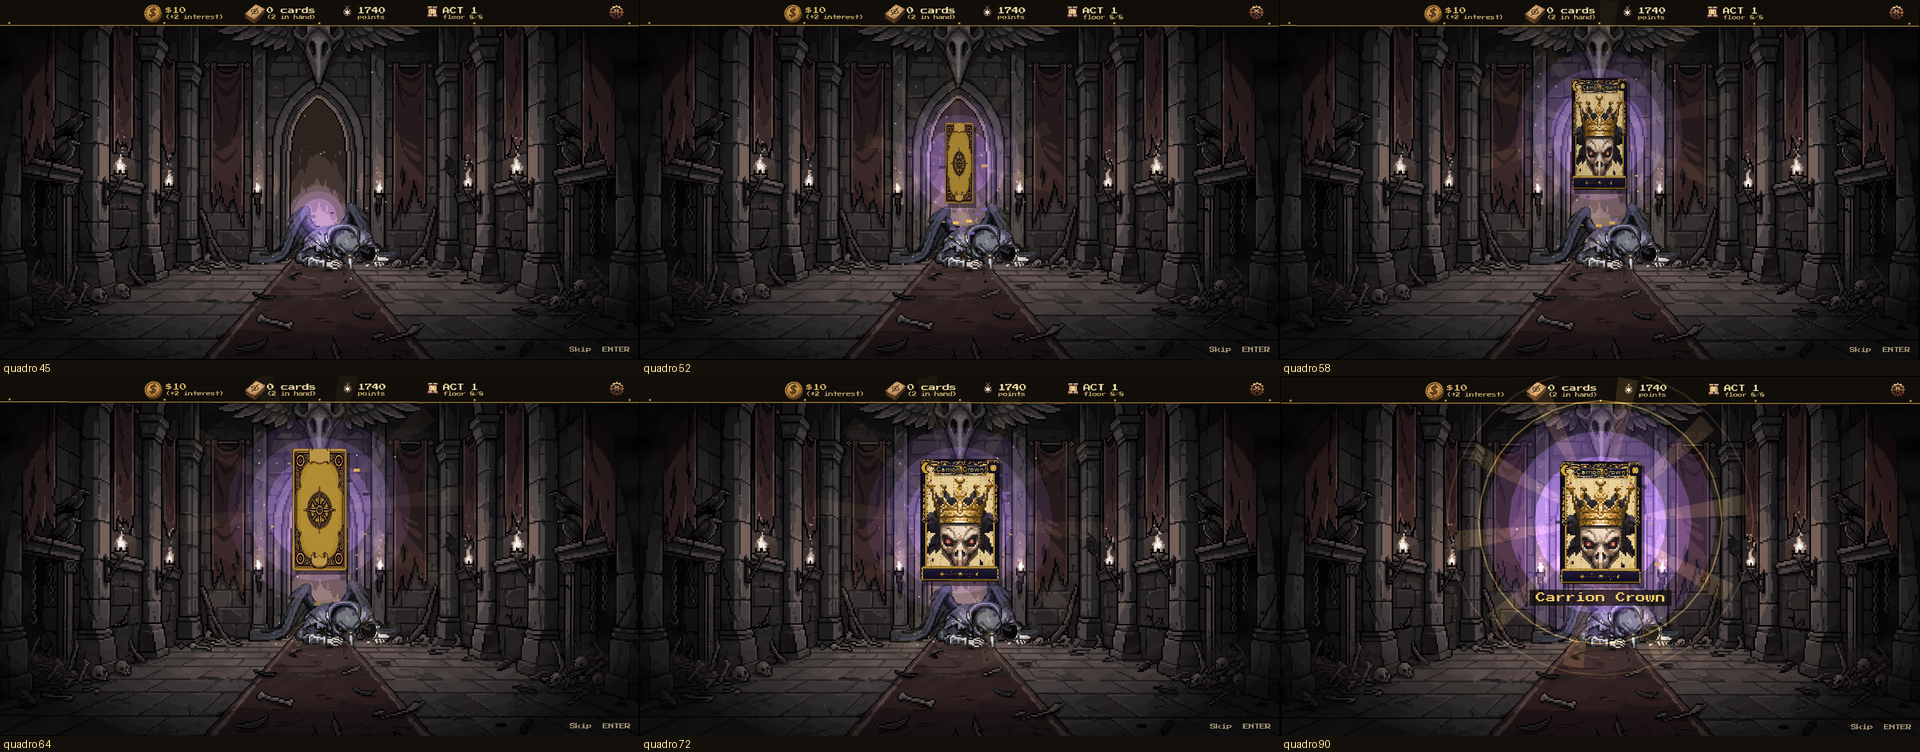
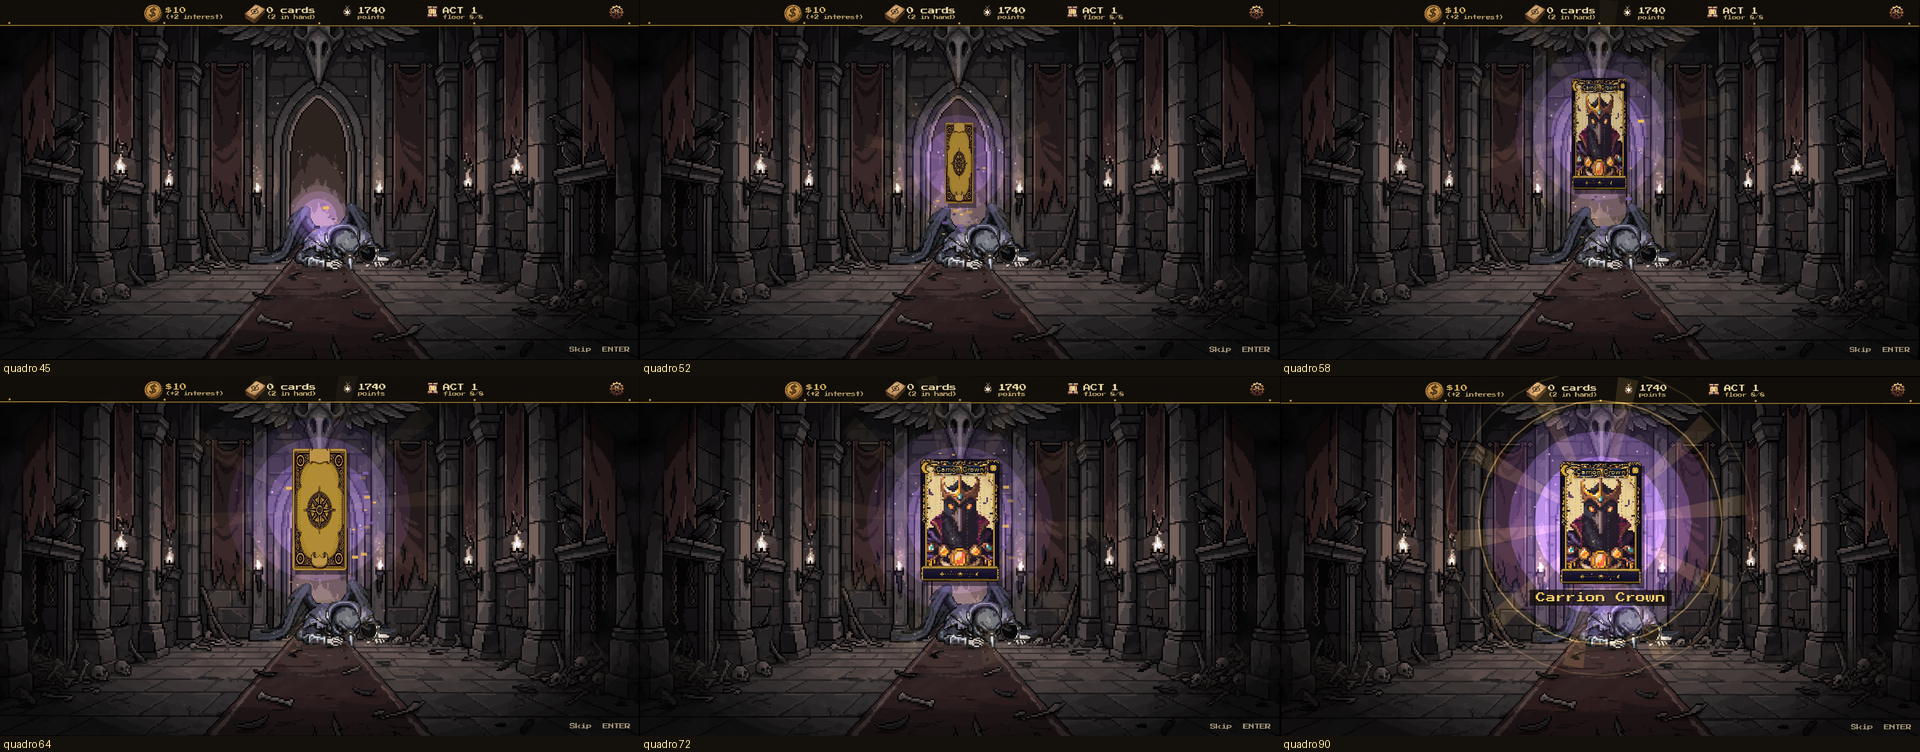
Coringa do rei-carniça: arte nova fiel ao sprite do chefe
Pedido do dono depois de ver as seis: "o rei-carniça pode mudar para ficar
um pouco mais fiel e impactante com o que temos". A v1 (caveira de corvo
coroada) não lembrava o sprite.

A v2 é o busto de frente do próprio rei: olhos laranja olhando direto, coroa
de bronze com pontas douradas e pedras azuis, manto roxo de franja, costelas
de osso com a joia laranja no peito, asas abertas e corvos e penas em volta.
Saiu da mesma ferramenta das outras cinco (create_map_object 64x64, mesmo
sufixo) para não derivar da família; o modo básico não aceita imagem de
referência, então o idle entrou descrito no prompt. Escolhida a candidata 7
de 5 (prancha joker_boss_carrion_v2_prancha.png). Ícone animado assado no
bake_icon_glint: olhos e joia acendendo e brilho varrendo a coroa, silhueta
parada.

diff --git a/tools/pixellab_boss_jokers.py b/tools/pixellab_boss_jokers.py
@@ -24,7 +24,7 @@ STYLE = (", dark fantasy grimoire illustration pixel art, inked engraving "
          "Spire and Magic the Gathering legendary card art aesthetic")
 
 ACCENT = {
-    "joker_boss_carrion": "dull violet with amber eye glow",
+    "joker_boss_carrion": "dark violet with glowing orange eyes and orange chest jewel",
     "joker_boss_lich": "pale frost blue glow",
     "joker_boss_tyrant": "molten lava orange glow",
     "joker_boss_winter": "icy pale blue",
@@ -45,6 +45,11 @@ SUBJECTS = {
         "close-up of a crowned raven king face, curved black beak, piercing "
         "amber eye, golden crown with blue jewel, ragged feather collar, "
         "menacing regal stare",
+        "front facing bust of the crowned raven king, black raven head with a dark slate beak tinged orange at the base, two glowing orange eyes staring straight at the viewer, a rusty bronze crown with sharp gold tipped points and pale blue gems, dark violet mantle with gold trim and tattered fringe on the shoulders, a bone ribcage chest with a glowing orange jewel amulet in the center, huge dark violet-black wings spread wide behind him, two small black crows flying around his head",
+        "front facing bust of the crowned raven king, black raven head with a dark slate beak tinged orange at the base, two glowing orange eyes staring straight at the viewer, a rusty bronze crown with sharp gold tipped points and pale blue gems, dark violet mantle with gold trim and tattered fringe on the shoulders, a bone ribcage chest with a glowing orange jewel amulet in the center, wings folded high behind the shoulders like a cloak, three black crows circling the crown",
+        "close up of the crowned raven king face filling the frame, black feathered raven head, dark slate beak, two glowing orange eyes staring straight ahead, rusty bronze crown with gold points and pale blue gems, violet collar with gold trim, a black crow perched on each shoulder",
+        "front facing bust of the crowned raven king, black raven head with a dark slate beak tinged orange at the base, two glowing orange eyes staring straight at the viewer, a rusty bronze crown with sharp gold tipped points and pale blue gems, dark violet mantle with gold trim and tattered fringe on the shoulders, a bone ribcage chest with a glowing orange jewel amulet in the center, wings spread, a swirl of black crows and falling black feathers around him, strong backlight",
+        "front facing bust of the crowned raven king, black raven head with a dark slate beak tinged orange at the base, two glowing orange eyes staring straight at the viewer, a rusty bronze crown with sharp gold tipped points and pale blue gems, dark violet mantle with gold trim and tattered fringe on the shoulders, a bone ribcage chest with a glowing orange jewel amulet in the center, head slightly lowered with a menacing stare, wings spread like a dark halo, one crow on his shoulder and one flying",
     ],
     "joker_boss_lich": [
         "glowing pale blue phylactery orb held in a silver claw cage on top of "

diff --git a/tools/bake_icon_glint.py b/tools/bake_icon_glint.py
@@ -35,10 +35,12 @@ ANIM = os.environ.get("ICON_ANIM_OUT") or os.path.join(ROOT, "assets/sprites/ico
 # sequência (as três adagas uma depois da outra) separados no eixo x.
 SPECS = {
     "joker_boss_carrion": dict(frames=12, fps=8, layers=[
-        dict(mode="points", points=[(25, 40), (38, 40)], phase=0.0,
-             glow=(255, 70, 40), gain=1.0),
+        dict(mode="points", points=[(26, 19), (37, 19)], phase=0.0,
+             glow=(255, 170, 60), gain=1.8),
+        dict(mode="points", points=[(31, 46)], phase=0.5,
+             glow=(255, 200, 90), gain=1.5),
         dict(hue=(28, 55), smin=0.45, smax=1.0, vmin=0.55, vmax=1.0,
-             box=(0, 0, 64, 32), dir=(1.0, 0.25), width=4.0, gain=0.6,
+             box=(0, 0, 64, 16), dir=(1.0, 0.25), width=6.0, gain=1.0,
              stagger=1),
     ]),
     "joker_boss_winter": dict(frames=12, fps=8, layers=[

diff --git a/memory/boss_jokers.md b/memory/boss_jokers.md
@@ -47,7 +47,7 @@ pegá-lo. A ideia de cada carta é um TROFÉU do chefe vencido.
 64x64, side, detailed shading, sufixo canônico com UM acento de cor do chefe).
 Pranchas e escolhidas em `tools/preview_out/coringa_chefe/`
 (`<id>_prancha.png`, `escolhidas.png`). Todas como relíquia/troféu do chefe:
-caveira de corvo coroada com dois corvos; caveira do lich de coroa de gelo
+rei-carniça v2 (dono: "mais fiel e impactante"): busto de frente do PRÓPRIO rei, olhos laranja, coroa de bronze com pedras azuis, manto roxo de franja, costelas com a joia laranja, asas e corvos em volta (a v1, caveira de corvo coroada, não lembrava o sprite; prancha `joker_boss_carrion_v2_prancha.png`). A mesma ferramenta das outras 5 (`create_map_object`) foi mantida de propósito: o modo básico não aceita imagem de referência, então o idle entrou DESCRITO no prompt, peça por peça; trocar de ferramenta só nesta carta faria o estilo derivar da família; caveira do lich de coroa de gelo
 segurando o orbe; coração de obsidiana com veias de lava (a 1ª leva deu
 coração de namorados: reprovado); escudo de gelo com caveira (o nome virou
 Égide porque o cetro saiu fino demais e o escudo LÊ "Bloqueio que fica");
